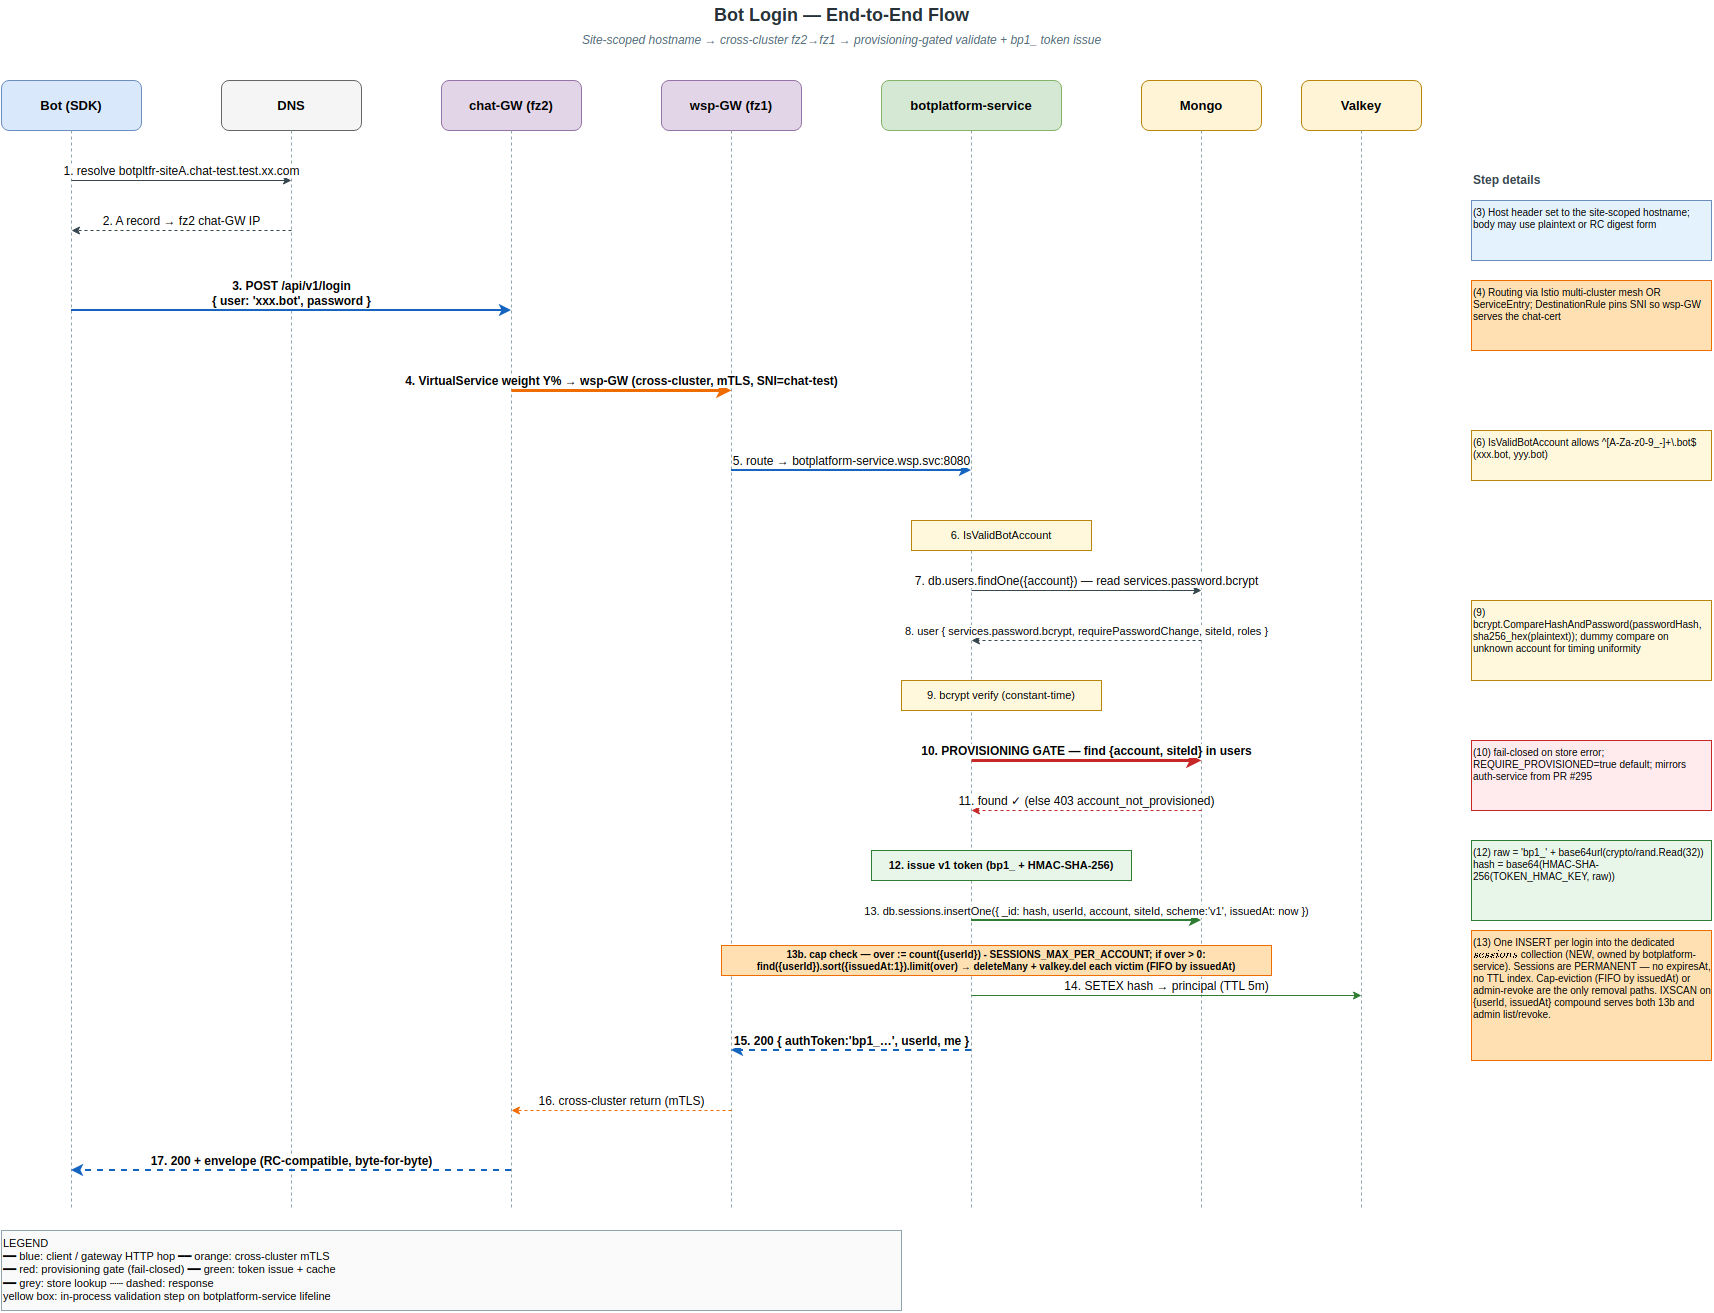
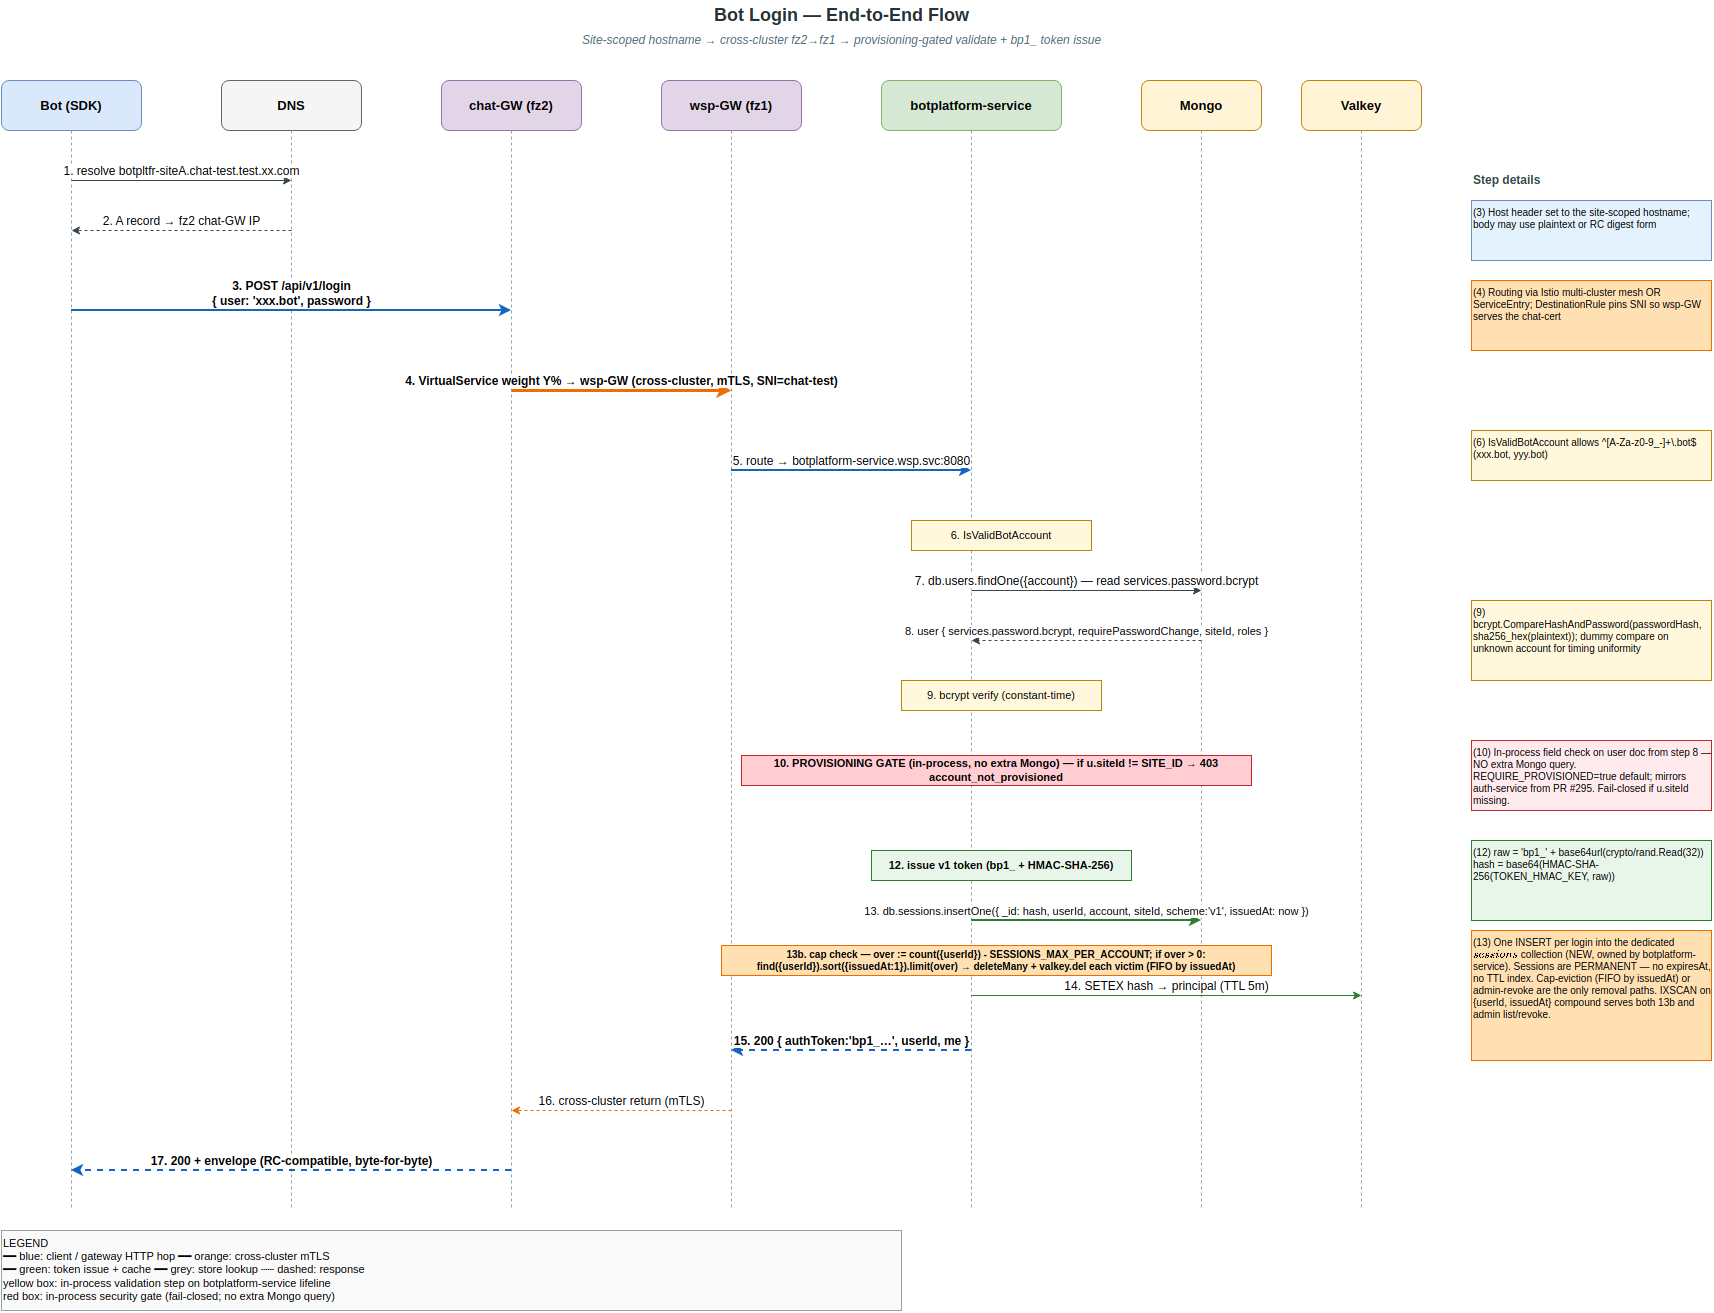
docs(auth): clarify provisioning gate is in-process field check, not a separate Mongo query
The §5.1 step 3 "provisioning gate" was being drawn and described as
if it were a second Mongo round-trip after the password verify. It's
not — the users doc loaded in step 2 already carries siteId, so the
gate is just:

  if cfg.RequireProvisioned && u.SiteID != cfg.SiteID {
      return errcode.Forbidden("account_not_provisioned")
  }

Zero extra DB calls, zero extra latency on the login hot path. The
gate is a distinct LOGICAL security control (validates site
affinity, separate concern from credential check), but operationally
it's an O(1) field comparison on a struct already in memory.

Spec edits:

(1) auth.md §5.1 step 3 — rewritten to say "in-process field check,
    NO extra Mongo query" explicitly. Shows the actual Go pattern.

(2) auth.md §1.5 (Critical Constraints) — earlier wording was
    "the account's {userId, siteId} must exist in this site's
    users collection", which read like a separate findOne. Replaced
    with "the siteId field on the users doc (already loaded for the
    password check) must match SITE_ID".

Diagram edits (all three login-flow diagrams):

(3) bot-login-flow.drawio — step 10/11 were drawn as a Mongo arrow
    + reply (PROVISIONING GATE — find {account, siteId} in users
    + found ✓). Replaced with a single red in-process activation box
    on the botplatform-service lifeline ("PROVISIONING GATE
    (in-process, no extra Mongo) — if u.siteId != SITE_ID → 403
    account_not_provisioned"). Side-panel annotation and legend
[…]

Changed region(s): [[0.4329, 0.5621, 0.7421, 0.6245], [0.8658, 0.5621, 0.9895, 0.6245], [0.0, 0.968, 0.2165, 0.9992]]

diff --git a/docs/specs/botplatform/auth.md b/docs/specs/botplatform/auth.md
@@ -169,7 +169,7 @@ Three services own the surface (**REVISED 2026-06-24** — Q18 reversed, admin s
   - Native v1 tokens: `bp_<43-char base64url of 32 random bytes>`, stored `base64(HMAC-SHA-256(server_secret, rawToken))`.
   - Validator dispatches on the `bp_` prefix; legacy fallback only for prefix-less tokens.
 - **IDs must be preserved from legacy** — no remapping layer (the v2 Go repo already preserves the 17-char `_id`).
-- **Provisioning-gated login.** After credential verification, the account's `{userId, siteId}` must exist in this site's `users` collection; otherwise `403 account_not_provisioned`. Mirrors the auth-service gate introduced in PR #295. Controlled by `REQUIRE_PROVISIONED=true` (default); fail-closed on store errors.
+- **Provisioning-gated login.** After credential verification, the `siteId` field on the `users` doc (already loaded for the password check) must match `SITE_ID`; otherwise `403 account_not_provisioned`. **In-process field check, no extra Mongo round-trip.** Mirrors the auth-service gate introduced in PR #295. Controlled by `REQUIRE_PROVISIONED=true` (default); fail-closed on store errors.
 - **Single home site per bot.** A bot is provisioned at exactly one site (its home site), identified by `siteId` on its user record. Login is accepted only at that site's `botplatform-service`. Cross-site interaction happens via NATS supercluster federation, never via cross-site login.
 - **Bot account → subject-name strip.** Bot accounts use the legacy `*.bot` suffix (`xxx.bot`, `yyy.bot`), which contains a `.` and would multi-tokenize unsafely if used raw in a NATS subject. The subject-side identifier is the **`.bot`-stripped form** (`xxx.bot` → `xxx`) produced by `subject.BotSubjectName` — the `chat.bot.>` namespace already encodes the class so the suffix is redundant. Bot NATS subjects scope to **`chat.bot.{account}.>`** (where `{account}` is the stripped name) — never the `chat.user.>` namespace, eliminating ACL overlap between human `xxx` and bot `xxx.bot` (Part II §4.7). Validation: `subject.IsValidBotAccount` accepts the legacy `^[A-Za-z0-9_-]+\.bot$` shape; the strict `subject.IsValidAccountToken` from PR #295 continues to apply to human accounts on `chat.user.>`.
 
@@ -590,7 +590,7 @@ PR #295 introduces `subject.IsValidAccountToken` (rejects accounts containing `.
 ### 5.1 Password login (admin or bot)
 1. Client `POST`s `{ user, password }` (plaintext **or** RC digest form) to **`POST /api/v1/login`** (the confirmed path, §12 Q1).
 2. Auth service loads the user by account from the `users` collection; reads `services.password.bcrypt`; derives `sha256_hex(pw)` (or uses the supplied digest); `bcrypt.CompareHashAndPassword` against the bcrypt hash. Constant-time; uniform error on unknown-account vs bad-password (dummy compare on miss).
-3. **Provisioning gate (when `REQUIRE_PROVISIONED=true`, default):** same `users` row, check `siteId == SITE_ID`. **Miss → `403 account_not_provisioned`.** Store error → **fail closed** (same `403`, loud server-side log). Disabling the gate logs a loud startup warning. Mirrors the auth-service gate from PR #295.
+3. **Provisioning gate (when `REQUIRE_PROVISIONED=true`, default) — in-process field check, NO extra Mongo query.** The `users` doc loaded in step 2 already carries `siteId`; the gate is just `if u.SiteID != cfg.SiteID { return 403 account_not_provisioned }`. Zero extra round-trips, zero extra latency. Store error in step 2 → **fail closed** (same `403`, loud server-side log). Disabling the gate logs a loud startup warning. Mirrors the auth-service gate from PR #295.
 4. On success: generate a raw v1 token (§4.6 — `bp_<43-char base64url>`), compute `hashedToken = base64(HMAC-SHA-256(server_secret, raw))`.
 5. **INSERT the session row + enforce the cap (§5.6):**
    ```js